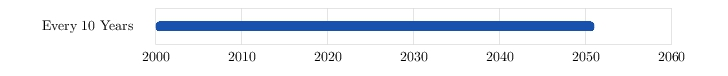
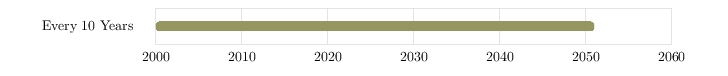
Make charts consistent in README.md.

Changed region(s): [[0.2115, 0.2632, 0.8159, 0.4211]]

diff --git a/README.md b/README.md
@@ -8,15 +8,18 @@ For example, a file containing:
 ```
 Objective-C  | lang | 2006.6 - 2013.7
 C++          | lang | 2002 - 2008
-C            | lang | 2001 - 2002 | 2007 - 2009
+C            | lang | 2001 - 2002 | 2005 - 2007
+-----------------------------------------------
+PostgreSQL   | db   | 2004 - 2006
+SQLite       | db   | 2002 - 2007
 -----------------------------------------------
 OS X         | os   | 2006.6 - 2013.7
-Linux        | os   | 2005 - 2008
+Linux        | os   | 2005 - 2010
 Windows      | os   | 2001 - 2006.2
 -----------------------------------------------
 XCode        | tool | 2006.6 - 2013.7
 Emacs        | tool | 2005 - 2008
-MS VS        | tool | 2001 - 2006.2
+VS           | tool | 2001 - 2004
 ```
 <!-- @end -->
 
@@ -42,9 +45,9 @@ will result in:
 
     <!-- @tchart doc/README/skills.jpg -->    
     ```
-    Objective-C | lang | 2006 - 2013
-    C++         | lang | 2002 - 2008
-    C           | lang | 2001 - 2002
+    Objective-C  | lang | 2006.6 - 2013.7
+    C++          | lang | 2002 - 2008
+    C            | lang | 2001 - 2002 | 2005 - 2007
     ```
     <!-- @end -->
 
@@ -157,10 +160,10 @@ line, a separator line, or a setting:
 # Blanks lines above and below this line, and further down.
 
 # A data line.
-Objective-C  | lang | 2001-2015
+Objective-C  | lang | 2006.6 - 2013.8
 
 # A separator line.
--------------------------------
+-------------------------------------
 
 # A setting.
 chart_width = 164.99
@@ -179,7 +182,9 @@ A comment can appear either on a line by itself or at the end of a line.  The co
 <!-- @tchart doc/README/comments.jpg -->
 ```
 # This is a comment.
-C | lang | 2001     # This is another comment.
+Objective-C  | lang | 2006.6 - 2013.7               # This is another comment.
+C++          | lang | 2002 - 2008
+# C            | lang | 2001 - 2002 | 2005 - 2007   # This line is commented out.
 ```
 <!-- @end -->
 
@@ -194,9 +199,11 @@ Blank lines are ignored.
 
 <!-- @tchart doc/README/blank-lines.jpg -->
 ```
-C   | lang | 2001
+Objective-C  | lang | 2006.6 - 2013.7
 
-C++ | lang | 2002
+C++          | lang | 2002 - 2008
+
+C            | lang | 2001 - 2002 | 2005 - 2007
 ```
 <!-- @end -->
 
@@ -217,7 +224,7 @@ be, etc.), and one or more date ranges.  Elements are separated by a pipe charac
 
 <!-- @tchart doc/README/data-lines.jpg -->
 ```
-C++ | lang | 2001 - 2002 | 2004 - 2006
+C            | lang | 2001 - 2002 | 2005 - 2007
 ```
 <!-- @end -->
 
@@ -232,7 +239,7 @@ Labels can contain spaces, although leading and trailing spaces are ignored.
 <!-- @tchart doc/README/data-line-labels.jpg -->
 ```
 # The label below has leading, trailing, and embedded spaces.
-   MS Word   | tool | 2002 - 2005       # The label used on the chart is 'MS Word'.
+   C & C++   | lang | 2001 - 2008       # The label used on the chart is "C & C++"
 ```
 <!-- @end -->
 
@@ -261,8 +268,8 @@ the generated TikZ chart code.  For example, we might have a file, chart.txt, th
 
 <!-- @tchart doc/README/data-line-styles.jpg -->
 ```
-C++     | lang | 2001 - 2003
-OS X    | os   | 2002 - 2004
+C++          | lang | 2002 - 2008
+Linux        | os   | 2005 - 2010
 ```
 <!-- @end -->
 
@@ -273,7 +280,7 @@ by incuding a separate file, or inline, as shown here:
 ...
 
 % Style for programming language chart bars.
-\definecolor{lang_color}{rgb}{.10, .32, .68}
+\definecolor{lang_color}{rgb}{ 0.59, 0.59, 0.39 }
 \tikzset{ lang/.style = {
   rounded corners = 1mm,
   line width = 0.1pt,
@@ -283,7 +290,7 @@ by incuding a separate file, or inline, as shown here:
 }}
 
 % Style for operating systems chart bars.
-\definecolor{os_color}{rgb}{.35, .57, .93}
+\definecolor{os_color}{rgb}{0.88, 0.88, 0.59}
 \tikzset{ os/.style = {
   rounded corners = 1mm,
   line width = 0.1pt,
@@ -334,7 +341,7 @@ if included.
 
 <!-- @tchart doc/README/data-line-dates-optional.jpg -->
 ```
-Objective-C  | lang | 2001
+Objective-C  | lang | 2006.6 - 2013.7
 C++          | lang
 C
 ``` 
@@ -379,15 +386,13 @@ line on the chart.  They are specified by using a line starting with three dashe
 
 <!-- @tchart doc/README/separator-line.jpg -->
 ```
-C++     | lang | 2003 - 2007
-C       | lang | 2005 - 2011
----                             # Three dashes produce a separator.
-OS X    | os   | 2003 - 2009
-Linux   | os   | 2008 - 2011
+Objective-C  | lang | 2006.6 - 2013.7
+---                                     # Three dashes produce a separator.
+PostgreSQL   | db   | 2004 - 2006
 --- Anything after the first three dashes is ignored, so this is legal.
-Emacs   | tool | 2003 - 2005
-----------------------------    # A full line of dashes.
-Java    | lang | 2004
+OS X         | os   | 2006.6 - 2013.7
+-------------------------------------   # A full line of dashes.
+XCode        | tool | 2006.6 - 2013.7
 ```
 <!-- @end -->
 
@@ -432,9 +437,9 @@ chart_width = 60        # This is the winning value.
     ```
     chart_width = 70
 
-    Objective-C | lang | 2005.3 - 2007.2
-    C++         | lang | 2003.4 - 2006.9
-    C           | lang | 2005 - 2008
+    Objective-C  | lang | 2006.6 - 2013.7
+    C++          | lang | 2002 - 2008
+    C            | lang | 2001 - 2002 | 2005 - 2007
     ```
     <!-- @end -->
 
@@ -444,9 +449,9 @@ chart_width = 60        # This is the winning value.
     ```
     chart_width = 140
 
-    Objective-C | lang | 2005.3 - 2007.2
-    C++         | lang | 2003.4 - 2006.9
-    C           | lang | 2005 - 2008
+    Objective-C  | lang | 2006.6 - 2013.7
+    C++          | lang | 2002 - 2008
+    C            | lang | 2001 - 2002 | 2005 - 2007
     ```
     <!-- @end -->
 
@@ -461,9 +466,9 @@ chart_width = 60        # This is the winning value.
     ```
     line_height = 3
     
-    Objective-C | lang | 2005.3 - 2007.2
-    C++         | lang | 2003.4 - 2006.9
-    C           | lang | 2005 - 2008
+    Objective-C  | lang | 2006.6 - 2013.7
+    C++          | lang | 2002 - 2008
+    C            | lang | 2001 - 2002 | 2005 - 2007
     ```
     <!-- @end -->
     
@@ -473,9 +478,9 @@ chart_width = 60        # This is the winning value.
     ```
     line_height = 9
     
-    Objective-C | lang | 2005.3 - 2007.2
-    C++         | lang | 2003.4 - 2006.9
-    C           | lang | 2005 - 2008
+    Objective-C  | lang | 2006.6 - 2013.7
+    C++          | lang | 2002 - 2008
+    C            | lang | 2001 - 2002 | 2005 - 2007
     ```
     <!-- @end -->
     
@@ -492,9 +497,9 @@ chart_width = 60        # This is the winning value.
     ```
     x_item_label_width = 10
         
-    Objective-C | lang | 2005.3 - 2007.2
-    C++         | lang | 2003.4 - 2006.9
-    C           | lang | 2005 - 2008
+    Objective-C  | lang | 2006.6 - 2013.7
+    C++          | lang | 2002 - 2008
+    C            | lang | 2001 - 2002 | 2005 - 2007
     ```
     <!-- @end -->
     
@@ -504,9 +509,9 @@ chart_width = 60        # This is the winning value.
     ```
     x_item_label_width = 50
         
-    Objective-C | lang | 2005.3 - 2007.2
-    C++         | lang | 2003.4 - 2006.9
-    C           | lang | 2005 - 2008
+    Objective-C  | lang | 2006.6 - 2013.7
+    C++          | lang | 2002 - 2008
+    C            | lang | 2001 - 2002 | 2005 - 2007
     ```
     <!-- @end -->
     
@@ -522,9 +527,9 @@ chart_width = 60        # This is the winning value.
     ```
     x_item_y_coordinate = 10
         
-    Objective-C | lang | 2005.3 - 2007.2
-    C++         | lang | 2003.4 - 2006.9
-    C           | lang | 2005 - 2008
+    Objective-C  | lang | 2006.6 - 2013.7
+    C++          | lang | 2002 - 2008
+    C            | lang | 2001 - 2002 | 2005 - 2007
     ```
     <!-- @end -->
     
@@ -534,9 +539,9 @@ chart_width = 60        # This is the winning value.
     ```
     x_item_y_coordinate = -10
         
-    Objective-C | lang | 2005.3 - 2007.2
-    C++         | lang | 2003.4 - 2006.9
-    C           | lang | 2005 - 2008
+    Objective-C  | lang | 2006.6 - 2013.7
+    C++          | lang | 2002 - 2008
+    C            | lang | 2001 - 2002 | 2005 - 2007
     ```
     <!-- @end -->
     
@@ -553,9 +558,9 @@ chart_width = 60        # This is the winning value.
     ```
     y_item_label_width = 5
         
-    Objective-C | lang | 2005.3 - 2007.2
-    C++         | lang | 2003.4 - 2006.9
-    C           | lang | 2005 - 2008
+    Objective-C  | lang | 2006.6 - 2013.7
+    C++          | lang | 2002 - 2008
+    C            | lang | 2001 - 2002 | 2005 - 2007
     ```
     <!-- @end -->
     
@@ -565,9 +570,9 @@ chart_width = 60        # This is the winning value.
     ```
     y_item_label_width = 50    
         
-    Objective-C | lang | 2005.3 - 2007.2
-    C++         | lang | 2003.4 - 2006.9
-    C           | lang | 2005 - 2008
+    Objective-C  | lang | 2006.6 - 2013.7
+    C++          | lang | 2002 - 2008
+    C            | lang | 2001 - 2002 | 2005 - 2007
     ```
     <!-- @end -->
     
@@ -578,16 +583,9 @@ chart_width = 60        # This is the winning value.
 <br>
 ### Version History
 
-0.0.1 August 2013
+0.0.1 (August 2013)
 
 - Initial construction.
-
-
-
-<br>
-### History
-
-tchart was written to generate skill and employment history charts for the author's resume.
 
 
 
